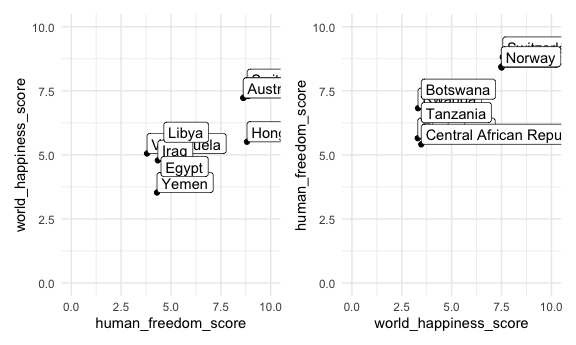
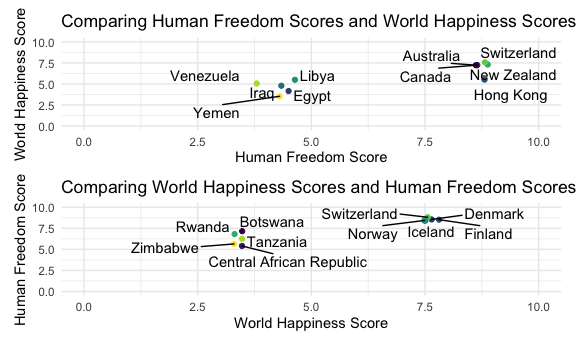
Cleaned up file and inserted places to leave comments, made plots look a lot nicer.

diff --git a/top_5_bottom_5.md b/top_5_bottom_5.md
@@ -1,62 +1,7 @@
 Top 5 Countries
 ================
 
-## Read in data
-
-``` r
-merged_df = 
-  read_csv("./data/merged_df.csv") %>% 
-  mutate(world_happiness_score = ladder_score) %>% 
-  select(-X1, -ladder_score) %>% 
-  drop_na(world_happiness_score, human_freedom_score) %>% 
-  select(countries, world_happiness_score, everything())
-```
-
-## Ladder Score Bottom 5
-
-``` r
-bot5_whr = 
-  merged_df %>% 
-  arrange(world_happiness_score) %>% 
-  top_n(world_happiness_score, n = -5)
-```
-
-## Ladder Score Top 5
-
-``` r
-top5_whr = 
-  merged_df %>% 
-  arrange(world_happiness_score) %>% 
-  top_n(world_happiness_score, n = 5) %>% 
-  arrange(desc(world_happiness_score))
-```
-
-## HFI Top 5
-
-``` r
-top5_hfi = 
-  merged_df %>% 
-  select(countries, human_freedom_score, everything()) %>% 
-  arrange(human_freedom_score) %>% 
-  top_n(human_freedom_score, n = 5) %>% 
-  arrange(desc(human_freedom_score))
-```
-
-## HFI Bottom 5
-
-``` r
-bot5_hfi = 
-  merged_df %>% 
-  select(countries, human_freedom_score, everything()) %>%
-  arrange(human_freedom_score) %>% 
-  top_n(human_freedom_score, n = -5)
-```
-
 ## Tables n Plots
-
-``` r
-bot5_hfi %>% knitr::kable()
-```
 
 | countries | human\_freedom\_score | world\_happiness\_score | personal\_freedom\_score | economic\_freedom\_score | religion | association | assembly | movement | inheritance\_rights | security\_safety | disapperances\_conflicts\_and\_terrorism | rule\_of\_law | homicide | size\_of\_government |
 | :-------- | --------------------: | ----------------------: | -----------------------: | -----------------------: | -------: | ----------: | -------: | -------: | ------------------: | ---------------: | ---------------------------------------: | ------------: | -------: | -------------------: |
@@ -66,9 +11,7 @@ bot5_hfi %>% knitr::kable()
 | Egypt     |                  4.50 |                  4.1514 |                 3.946335 |                     5.05 | 3.733333 |         5.0 |      2.5 | 4.166667 |                 0.0 |         4.983010 |                                 5.304344 |      3.626148 | 8.994685 |             4.862935 |
 | Libya     |                  4.64 |                  5.4888 |                 4.833050 |                     4.45 | 6.938889 |         2.5 |      2.5 | 5.833333 |                 7.5 |         6.891814 |                                 2.926994 |      2.321973 | 8.998449 |             3.654235 |
 
-``` r
-top5_hfi %>% knitr::kable()
-```
+Insert comments on bot 5 hfi
 
 | countries   | human\_freedom\_score | world\_happiness\_score | personal\_freedom\_score | economic\_freedom\_score | religion | association | assembly | movement | inheritance\_rights | security\_safety | disapperances\_conflicts\_and\_terrorism | rule\_of\_law | homicide | size\_of\_government |
 | :---------- | --------------------: | ----------------------: | -----------------------: | -----------------------: | -------: | ----------: | -------: | -------: | ------------------: | ---------------: | ---------------------------------------: | ------------: | -------: | -------------------: |
@@ -78,23 +21,11 @@ top5_hfi %>% knitr::kable()
 | Canada      |                  8.65 |                  7.2321 |                 9.222964 |                     8.08 | 9.003704 |        10.0 |     10.0 |       10 |                  10 |         9.747287 |                                 9.961861 |      7.738324 |     9.28 |             6.484464 |
 | Australia   |                  8.62 |                  7.2228 |                 9.160533 |                     8.07 | 9.075926 |        10.0 |     10.0 |       10 |                  10 |         9.878339 |                                 9.955017 |      7.776279 |     9.68 |             6.959863 |
 
-``` r
-hfi_combo = full_join(bot5_hfi, top5_hfi)
-```
+Insert comments on top 5 hfi
 
-    ## Joining, by = c("countries", "human_freedom_score", "world_happiness_score", "personal_freedom_score", "economic_freedom_score", "religion", "association", "assembly", "movement", "inheritance_rights", "security_safety", "disapperances_conflicts_and_terrorism", "rule_of_law", "homicide", "size_of_government")
+<img src="top_5_bottom_5_files/figure-gfm/unnamed-chunk-8-1.png" width="90%" />
 
-``` r
-hfi_plot = 
-  hfi_combo %>% 
-  ggplot(aes(x = human_freedom_score, y = world_happiness_score))+
-  geom_point()+
-  geom_label(aes(label = countries), hjust = 0, vjust = 0)+
-  xlim(min = 0, max = 10)+
-  ylim(min = 0, max = 10)
-
-bot5_whr %>% knitr::kable()
-```
+Insert comments about the plot hfi
 
 | countries                | world\_happiness\_score | human\_freedom\_score | personal\_freedom\_score | economic\_freedom\_score | religion | association | assembly | movement | inheritance\_rights | security\_safety | disapperances\_conflicts\_and\_terrorism | rule\_of\_law | homicide | size\_of\_government |
 | :----------------------- | ----------------------: | --------------------: | -----------------------: | -----------------------: | -------: | ----------: | -------: | -------: | ------------------: | ---------------: | ---------------------------------------: | ------------: | -------: | -------------------: |
@@ -104,9 +35,7 @@ bot5_whr %>% knitr::kable()
 | Tanzania                 |                  3.4762 |                  6.26 |                 5.748136 |                     6.77 | 6.447778 |         7.5 |      5.0 | 8.333333 |                 0.0 |         6.835967 |                                 8.487902 |      4.244131 | 7.520000 |             6.658225 |
 | Botswana                 |                  3.4789 |                  7.17 |                 6.970084 |                     7.37 | 9.008333 |          NA |       NA | 7.500000 |                 7.5 |         7.578237 |                                10.000000 |      5.641684 | 3.984712 |             6.366563 |
 
-``` r
-top5_whr %>% knitr::kable()
-```
+Insert comments about bot 5 whr
 
 | countries   | world\_happiness\_score | human\_freedom\_score | personal\_freedom\_score | economic\_freedom\_score | religion | association | assembly | movement | inheritance\_rights | security\_safety | disapperances\_conflicts\_and\_terrorism | rule\_of\_law | homicide | size\_of\_government |
 | :---------- | ----------------------: | --------------------: | -----------------------: | -----------------------: | -------: | ----------: | -------: | -------: | ------------------: | ---------------: | ---------------------------------------: | ------------: | -------: | -------------------: |
@@ -116,22 +45,8 @@ top5_whr %>% knitr::kable()
 | Iceland     |                  7.5045 |                  8.41 |                 9.084634 |                     7.74 | 8.122222 |          10 |       10 |       10 |                  10 |         9.880000 |                                10.000000 |      7.757267 |     9.64 |             5.811087 |
 | Norway      |                  7.4880 |                  8.44 |                 9.259625 |                     7.62 | 7.407407 |          10 |       10 |       10 |                  10 |         9.933333 |                                10.000000 |      8.556488 |     9.80 |             4.927812 |
 
-``` r
-whr_combo = full_join(bot5_whr, top5_whr)
-```
+Insert comments about top 5 whr
 
-    ## Joining, by = c("countries", "world_happiness_score", "human_freedom_score", "personal_freedom_score", "economic_freedom_score", "religion", "association", "assembly", "movement", "inheritance_rights", "security_safety", "disapperances_conflicts_and_terrorism", "rule_of_law", "homicide", "size_of_government")
+<img src="top_5_bottom_5_files/figure-gfm/unnamed-chunk-11-1.png" width="90%" />
 
-``` r
-whr_plot = 
-  whr_combo %>% 
-  ggplot(aes(x = world_happiness_score, y = human_freedom_score))+
-  geom_point()+
-  geom_label(aes(label = countries), hjust = 0, vjust = 0)+
-  xlim(min = 0, max = 10)+
-  ylim(min = 0, max = 10)
-
-hfi_plot + whr_plot
-```
-
-<img src="top_5_bottom_5_files/figure-gfm/unnamed-chunk-6-1.png" width="90%" />
+Insert comments about whr plot
